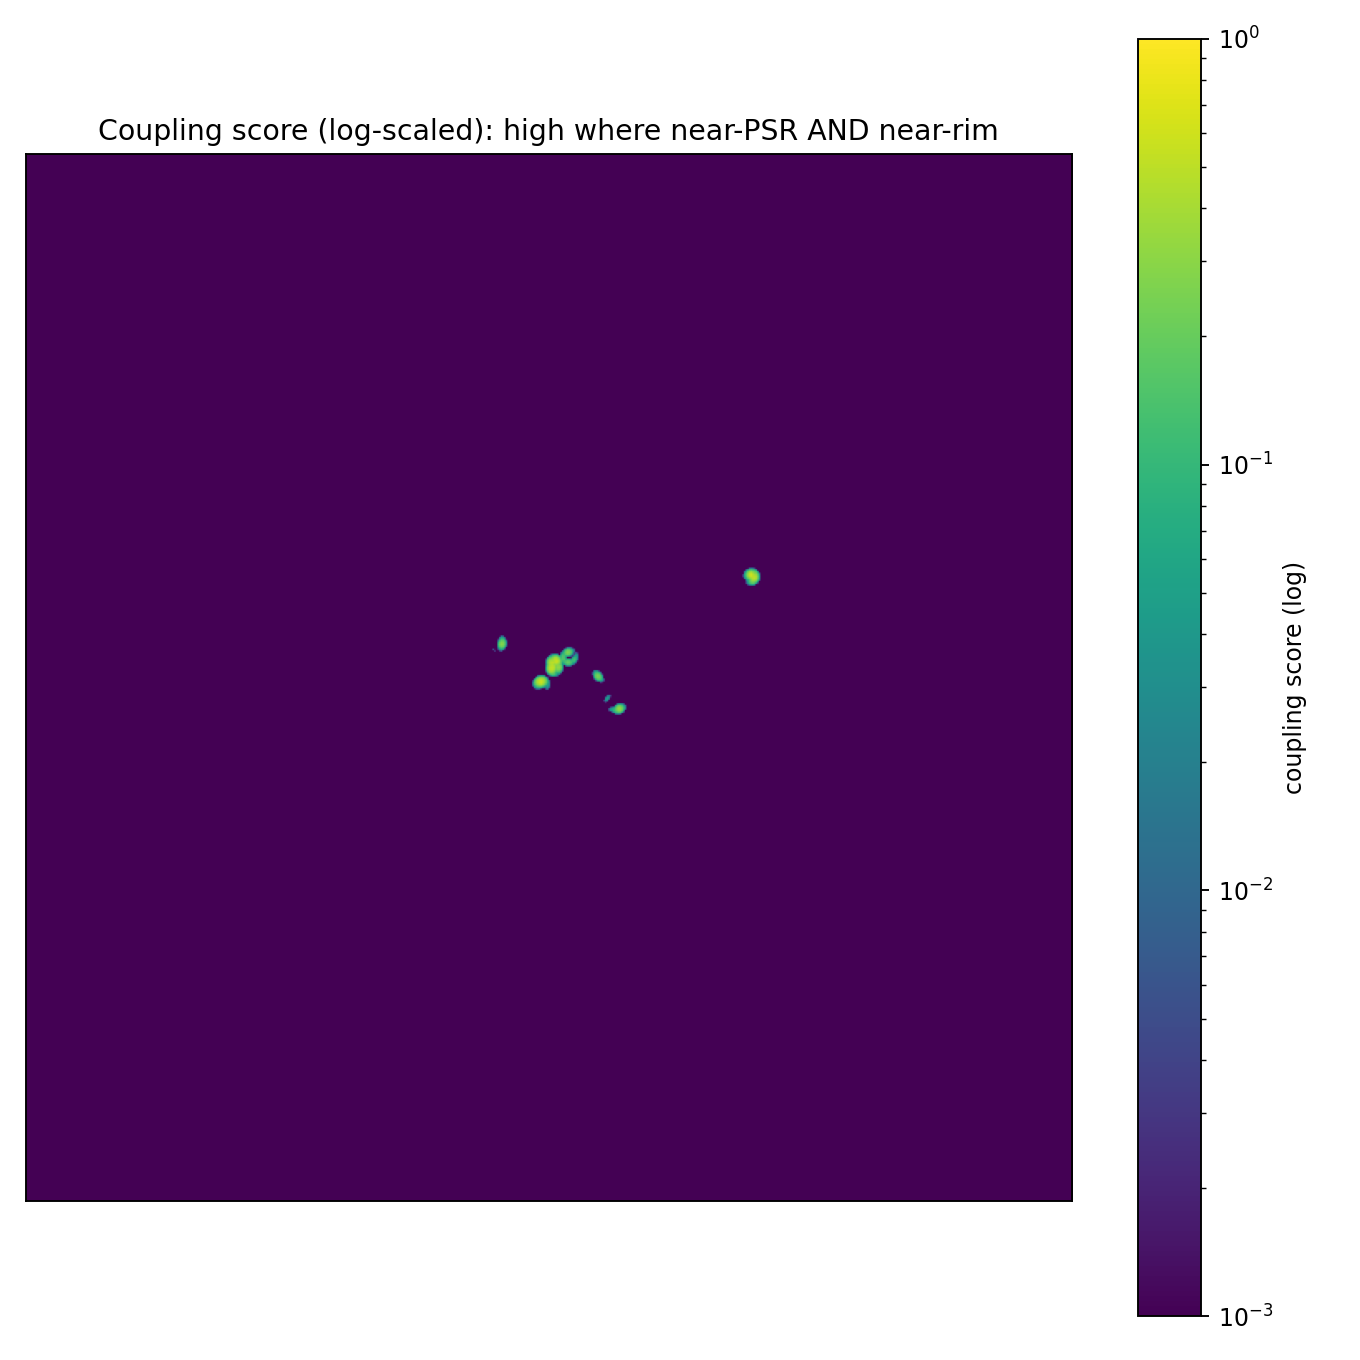
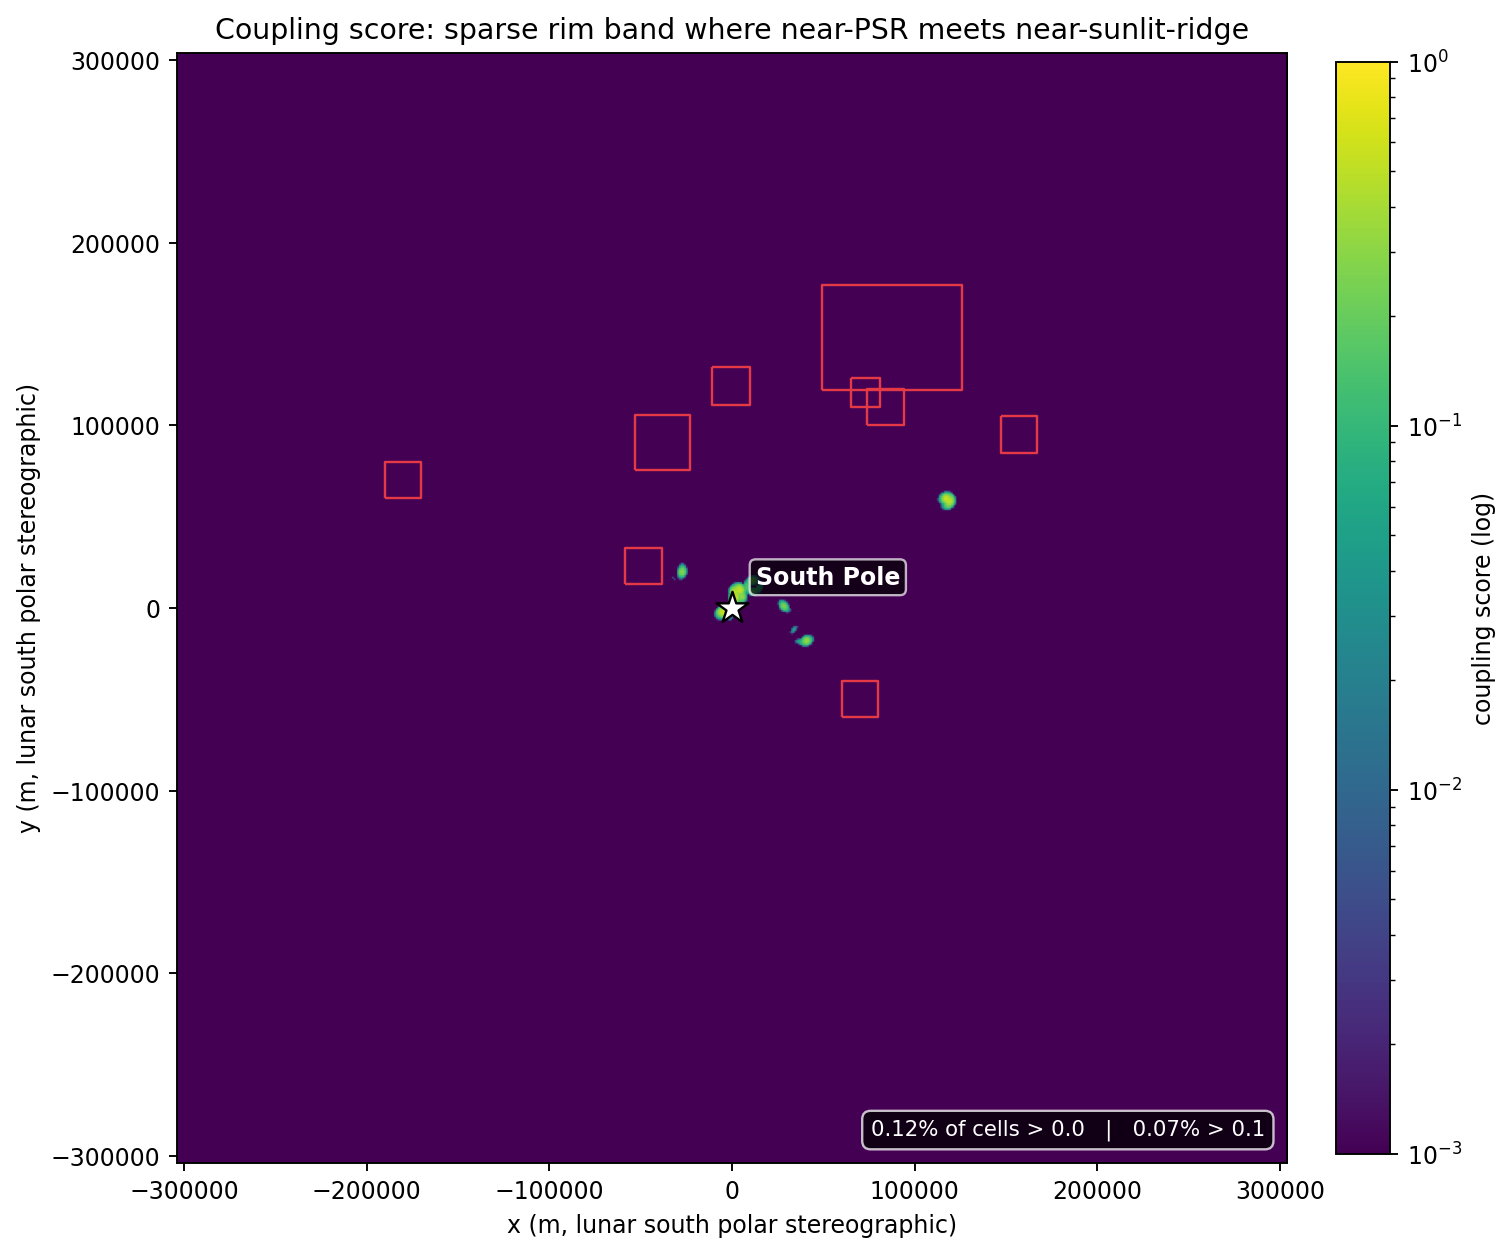
docs: regenerate diagnostics and tighten validation-history table at v1.4 state

diff --git a/scripts/regen_coupling_diagnostics_v14.py b/scripts/regen_coupling_diagnostics_v14.py
@@ -1,0 +1,299 @@
+"""Regenerate the two coupling-score diagnostic plots at v1.4.0 state.
+
+Outputs:
+
+- ``docs/img/coupling_overlay.png``: coupling score (log-scaled)
+  background, USGS-published Artemis III polygons (red outlines),
+  selene-base v1.4 global-ranking top-20 (cyan dots, numbered).
+- ``docs/img/coupling_score.png``: coupling score with USGS polygon
+  outlines and an explicit south-pole marker for spatial context, and
+  the sparsity caption rendered into the image.
+
+The week-7 ``notebooks/05_coupling_visualization.py`` notebook is left
+untouched as a documentation snapshot of the v1.0-era state; this
+script is the v1.4 regenerator.
+
+Run from the repo root:
+
+    python scripts/regen_coupling_diagnostics_v14.py
+
+Both PNGs land directly in ``docs/img/`` (where the README references
+them), not the throwaway ``data/outputs/sanity/`` directory.
+"""
+
+from __future__ import annotations
+
+import os
+
+# Same lunar/Earth ellipsoid override as the week 10/11/12 notebooks —
+# the coupling COG carries an "unknown" ellipsoid wrapped around
+# R = 1737400, and the USGS polygons use an explicit lunar PROJ string;
+# pyproj refuses to operate across them otherwise.
+os.environ.setdefault("PROJ_IGNORE_CELESTIAL_BODY", "YES")
+
+from pathlib import Path
+
+import geopandas as gpd
+import matplotlib.pyplot as plt
+import numpy as np
+import rioxarray  # noqa: F401  (registers the .rio accessor)
+from matplotlib.colors import LogNorm
+from matplotlib.lines import Line2D
+from pyproj import Transformer
+
+from selene_base.data.load import LUNAR_GEOGRAPHIC_CRS
+from selene_base.validation.nasa_regions import regions_polygons_to_geodataframe
+
+REPO_ROOT = Path(__file__).resolve().parent.parent
+COUPLING_SCORE_TIF = (
+    REPO_ROOT / "data" / "processed" / "scored" / "coupling_score_southpole_240m.tif"
+)
+TOP_SITES_GEOJSON = REPO_ROOT / "data" / "outputs" / "top_sites.geojson"
+DOCS_IMG = REPO_ROOT / "docs" / "img"
+DOCS_IMG.mkdir(parents=True, exist_ok=True)
+
+POLAR_PROJ = (
+    "+proj=stere +lat_0=-90 +lat_ts=-90 +lon_0=0 +k=1 +x_0=0 +y_0=0 +R=1737400 +no_defs +type=crs"
+)
+
+
+def _open(path: Path):
+    return rioxarray.open_rasterio(path, masked=True).squeeze("band", drop=True)
+
+
+def _coarsen(da, factor: int = 4) -> np.ndarray:
+    return da.coarsen(y=factor, x=factor, boundary="trim").mean().to_numpy()
+
+
+# Manual label offsets, in projected metres, for the four regions
+# clustered near the pole. Positive dx pushes east on screen; positive
+# dy pushes north on screen. Connector lines are drawn for any region
+# whose offset exceeds CONNECTOR_THRESHOLD_M.
+LABEL_OFFSETS_M: dict[str, tuple[float, float]] = {
+    # Five polygons cluster within ~80 km of each other near the pole;
+    # place each label along a different azimuth from its polygon
+    # centroid so the boxes don't collide.
+    # MM polygon centre ≈ (90 km, 115 km): label south-west, well below
+    # the cluster.
+    "Mons Mouton": (-55_000.0, -85_000.0),
+    "Mons Mouton Plateau": (-25_000.0, 110_000.0),  # north (large polygon)
+    "Malapert Massif": (-95_000.0, -25_000.0),  # far west
+    # N1 polygon centre ≈ (110 km, 110 km): south-east of polygon, but
+    # 40 km below MM's label so the two don't touch.
+    "Nobile Rim 1": (75_000.0, -75_000.0),
+    "Nobile Rim 2": (95_000.0, 30_000.0),  # far east
+    "Haworth": (-110_000.0, 25_000.0),
+    "Peak Near Cabeus B": (-25_000.0, 40_000.0),
+    "de Gerlache Rim 2": (-75_000.0, -55_000.0),
+    "Slater Plain": (45_000.0, -45_000.0),
+}
+CONNECTOR_THRESHOLD_M = 25_000.0
+
+
+def _draw_polygon_outlines(ax, polygons: gpd.GeoDataFrame, *, color: str, linewidth: float) -> None:
+    """Plot polygon boundaries (no fill) on a matplotlib axis."""
+    polygons.boundary.plot(ax=ax, color=color, linewidth=linewidth)
+
+
+def _label_polygons(ax, polygons: gpd.GeoDataFrame, *, color: str) -> None:
+    """Place a region-name label per polygon, with manual offsets and
+    connector lines for crowded regions near the pole."""
+    for _, row in polygons.iterrows():
+        name = str(row["Region"])
+        centroid = row.geometry.centroid
+        cx, cy = centroid.x, centroid.y
+        dx, dy = LABEL_OFFSETS_M.get(name, (0.0, 0.0))
+        label_x, label_y = cx + dx, cy + dy
+        offset_m = (dx * dx + dy * dy) ** 0.5
+        if offset_m > CONNECTOR_THRESHOLD_M:
+            ax.plot(
+                [cx, label_x],
+                [cy, label_y],
+                color=color,
+                linewidth=0.5,
+                alpha=0.6,
+                zorder=4,
+            )
+        ax.text(
+            label_x,
+            label_y,
+            name,
+            color=color,
+            fontsize=8,
+            fontweight="bold",
+            ha="center",
+            va="center",
+            bbox={"boxstyle": "round,pad=0.25", "fc": "white", "ec": "none", "alpha": 0.85},
+            zorder=5,
+        )
+
+
+def main() -> None:
+    coupling = _open(COUPLING_SCORE_TIF).rio.write_crs(POLAR_PROJ, inplace=False)
+    arr = _coarsen(coupling)
+    arr_clip = np.where(arr > 1e-3, arr, 1e-3)
+
+    # Sparsity numbers are computed on the *full-resolution* raster
+    # (not the coarsened one used for plotting) so they match the
+    # README and the criteria/coupling.py module docstring; mean-
+    # coarsening would attenuate the very-low-but-nonzero counts.
+    full = coupling.to_numpy()
+    finite_full = full[np.isfinite(full)]
+    pct_above_0 = 100.0 * (finite_full > 0.0).sum() / finite_full.size
+    pct_above_p1 = 100.0 * (finite_full > 0.1).sum() / finite_full.size
+    print(
+        f"coupling sparsity (full-resolution): {pct_above_0:.2f}% > 0.0, {pct_above_p1:.2f}% > 0.1"
+    )
+
+    transform = coupling.rio.transform()
+    extent = (
+        transform.c,
+        transform.c + transform.a * coupling.sizes["x"],
+        transform.f + transform.e * coupling.sizes["y"],
+        transform.f,
+    )
+
+    polygons = regions_polygons_to_geodataframe(target_crs=POLAR_PROJ)
+
+    # ---------------- coupling_overlay.png (top-20 + USGS polygons) ----------------
+    sites = gpd.read_file(TOP_SITES_GEOJSON)
+    to_polar = Transformer.from_crs(LUNAR_GEOGRAPHIC_CRS, POLAR_PROJ, always_xy=True)
+    if "x_m" in sites.columns and "y_m" in sites.columns:
+        site_x = sites["x_m"].to_numpy()
+        site_y = sites["y_m"].to_numpy()
+    else:
+        site_x, site_y = to_polar.transform(sites["lon"].to_numpy(), sites["lat"].to_numpy())
+
+    fig, ax = plt.subplots(figsize=(9, 9))
+    im = ax.imshow(
+        arr_clip,
+        cmap="viridis",
+        origin="upper",
+        extent=extent,
+        norm=LogNorm(vmin=1e-3, vmax=1.0),
+    )
+    fig.colorbar(im, ax=ax, label="coupling score (log)", fraction=0.045, pad=0.04)
+
+    _draw_polygon_outlines(ax, polygons, color="#e63946", linewidth=1.8)
+    _label_polygons(ax, polygons, color="#e63946")
+
+    ax.scatter(
+        site_x,
+        site_y,
+        s=70,
+        color="#22d3ee",
+        edgecolor="black",
+        linewidths=0.7,
+        zorder=10,
+    )
+    for _, row in sites.iterrows():
+        if "x_m" in row:
+            rx, ry = float(row["x_m"]), float(row["y_m"])
+        else:
+            rx, ry = to_polar.transform(row["lon"], row["lat"])
+            rx, ry = float(rx), float(ry)
+        ax.annotate(
+            str(int(row["rank"])),
+            (rx, ry),
+            xytext=(5, 5),
+            textcoords="offset points",
+            color="white",
+            fontsize=7,
+            fontweight="bold",
+            zorder=11,
+            path_effects=None,
+        )
+
+    legend_handles = [
+        Line2D(
+            [0],
+            [0],
+            color="#e63946",
+            linewidth=1.8,
+            label="NASA Artemis III regions (USGS polygons)",
+        ),
+        Line2D(
+            [0],
+            [0],
+            marker="o",
+            color="w",
+            markerfacecolor="#22d3ee",
+            markeredgecolor="black",
+            markersize=8,
+            label="selene-base top-20 (7-criterion, global ranking)",
+        ),
+    ]
+    ax.legend(handles=legend_handles, loc="lower left", fontsize=9, framealpha=0.92)
+    ax.set_xlabel("x (m, lunar south polar stereographic)")
+    ax.set_ylabel("y (m, lunar south polar stereographic)")
+    ax.set_title("Coupling score with USGS polygons and selene-base v1.4 top-20 overlaid")
+    ax.set_xlim(extent[0], extent[1])
+    ax.set_ylim(extent[2], extent[3])
+    fig.tight_layout()
+    out = DOCS_IMG / "coupling_overlay.png"
+    fig.savefig(out, dpi=170, bbox_inches="tight")
+    plt.close(fig)
+    print(f"[saved] {out}")
+
+    # ---------------- coupling_score.png (sparsity diagnostic) ----------------
+    fig, ax = plt.subplots(figsize=(9, 9))
+    im = ax.imshow(
+        arr_clip,
+        cmap="viridis",
+        origin="upper",
+        extent=extent,
+        norm=LogNorm(vmin=1e-3, vmax=1.0),
+    )
+    fig.colorbar(im, ax=ax, label="coupling score (log)", fraction=0.045, pad=0.04)
+
+    _draw_polygon_outlines(ax, polygons, color="#e63946", linewidth=1.0)
+
+    # South-pole marker.
+    ax.scatter(
+        [0.0],
+        [0.0],
+        marker="*",
+        s=200,
+        color="white",
+        edgecolor="black",
+        linewidths=1.0,
+        zorder=10,
+    )
+    ax.annotate(
+        "South Pole",
+        (0.0, 0.0),
+        xytext=(10, 10),
+        textcoords="offset points",
+        color="white",
+        fontsize=10,
+        fontweight="bold",
+        bbox={"boxstyle": "round,pad=0.25", "fc": "black", "ec": "white", "alpha": 0.7},
+        zorder=11,
+    )
+
+    ax.set_xlabel("x (m, lunar south polar stereographic)")
+    ax.set_ylabel("y (m, lunar south polar stereographic)")
+    ax.set_title("Coupling score: sparse rim band where near-PSR meets near-sunlit-ridge")
+    # Sparsity caption rendered into the image, lower-right corner.
+    ax.text(
+        0.98,
+        0.02,
+        f"{pct_above_0:.2f}% of cells > 0.0   |   {pct_above_p1:.2f}% > 0.1",
+        transform=ax.transAxes,
+        ha="right",
+        va="bottom",
+        fontsize=9,
+        color="white",
+        bbox={"boxstyle": "round,pad=0.4", "fc": "black", "ec": "white", "alpha": 0.75},
+    )
+    ax.set_xlim(extent[0], extent[1])
+    ax.set_ylim(extent[2], extent[3])
+    fig.tight_layout()
+    out = DOCS_IMG / "coupling_score.png"
+    fig.savefig(out, dpi=170, bbox_inches="tight")
+    plt.close(fig)
+    print(f"[saved] {out}")
+
+
+if __name__ == "__main__":
+    main()

diff --git a/README.md b/README.md
@@ -47,7 +47,7 @@ The combined picture: the criteria are tuned, the validation primitive is author
 
 The table below tracks the *global*-ranking inside-polygon count. v1.3.0 (week 11) reframes the analysis to per-region ranking; the global-ranking inside-polygon count remains 0/20 by construction of the global framing, but is no longer the project's headline.
 
-| Validation metric | 3-criteria | 5-criteria (+ PRP) | 6-criteria (+ coupling) | 6-crit + thermal/polygon | 7-criteria (+ LOS) | **7-criteria + USGS polygons** |
+| Validation metric | v0.5 baseline | v0.6 (+PRP) | v0.7 (+coupling) | v1.0 (+poly) | v1.1 (+LOS) | **v1.2 (USGS)** |
 | --- | --- | --- | --- | --- | --- | --- |
 | top sites within 25 km of any centroid | 0 / 20 | 0 / 20 | 0 / 20 | 0 / 20 | 0 / 20 | **0 / 20** |
 | top sites inside any 15 km disk | n/a | n/a | n/a | 0 / 20 | 0 / 20 | 0 / 20 |